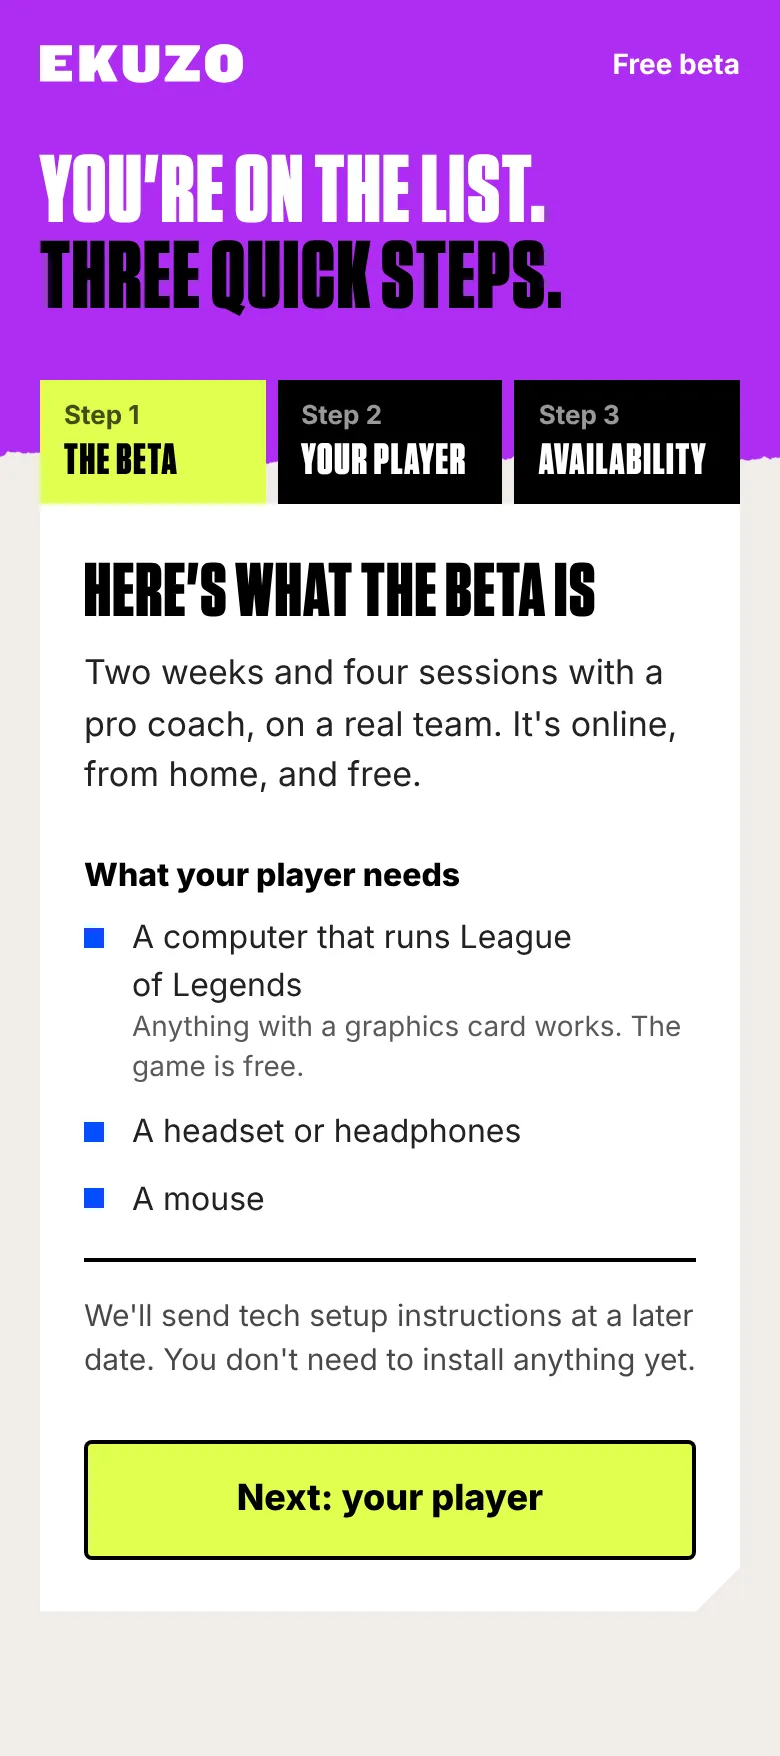
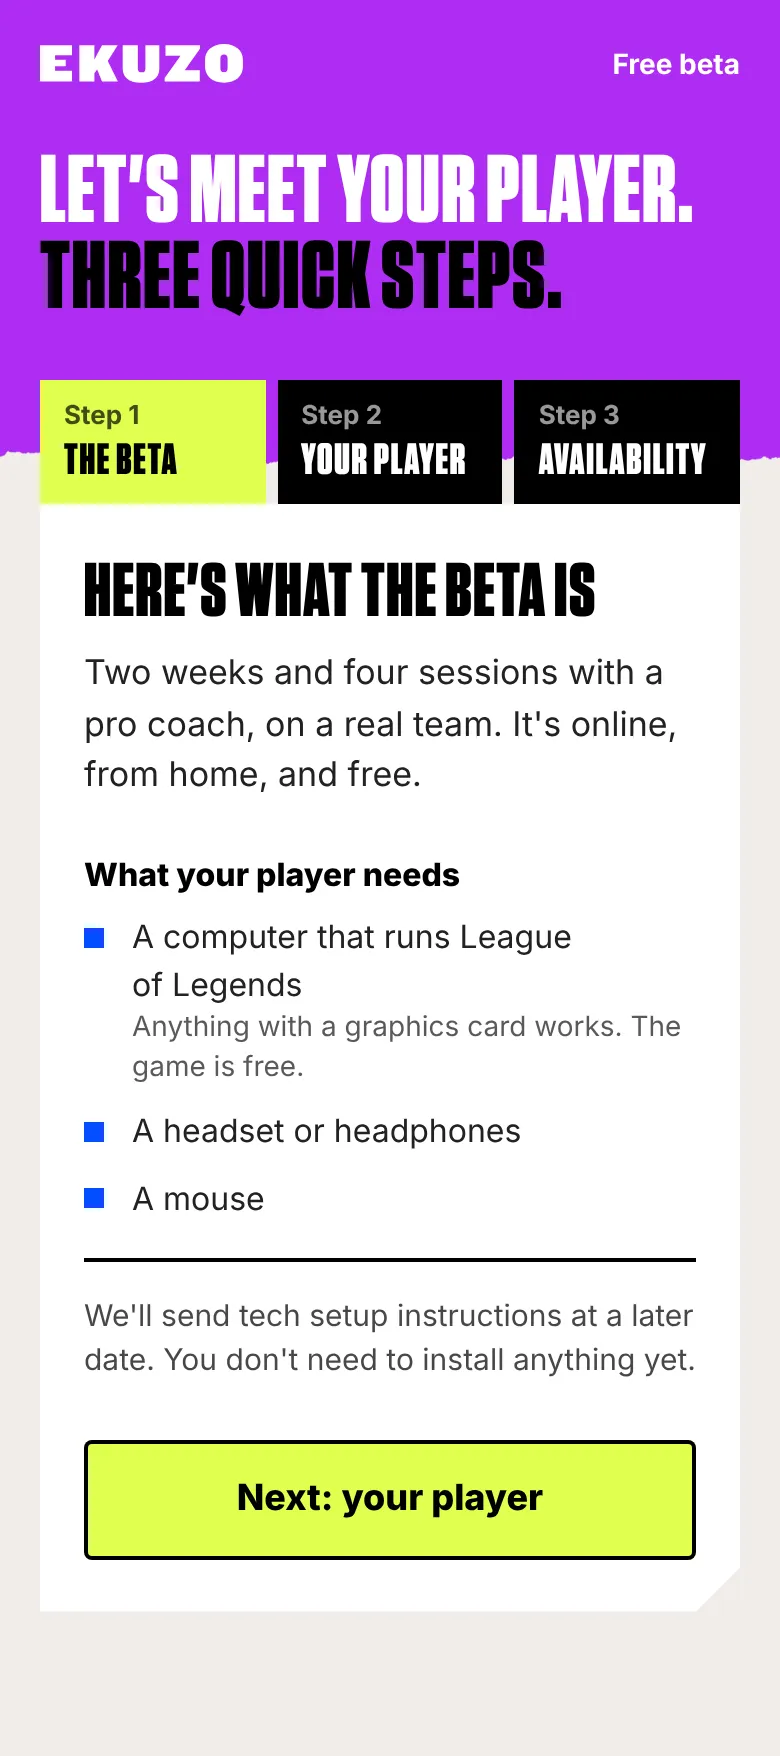
BETA wizard: player card step, softer ending, reaction test
Drops the games and League questions. Draft question set for the team
to settle Nov 12.

Claude-Session: https://claude.ai/code/session_01543UG8e9JwTD5Qg5aKwmc9

Changed region(s): [[0.0308, 0.0615, 0.8923, 0.1538]]

diff --git a/public/roadshow/beta/wizard.html b/public/roadshow/beta/wizard.html
@@ -87,10 +87,23 @@ main{position:relative;z-index:2;max-width:680px;margin:-56px auto 0;padding:0 2
 .btn.back:hover{background:var(--off)}
 .ask{font-size:15px;text-align:center;margin-top:20px;color:rgba(0,0,0,.7)}
 .ask a{font-weight:800;color:var(--black);text-underline-offset:3px;display:inline-flex;min-height:44px;align-items:center}
-.recap{list-style:none;margin-top:20px;border-top:2px solid var(--black)}
-.recap li{display:flex;justify-content:space-between;gap:16px;padding:12px 0;border-bottom:1px solid rgba(0,0,0,.18);font-size:16px}
-.recap li span{color:rgba(0,0,0,.65)}
-.recap li b{text-align:right;font-weight:700}
+.pc{margin-top:28px;background:var(--black);color:#fff;padding:20px 20px 18px;clip-path:polygon(0 0,calc(100% - 22px) 0,100% 22px,100% 100%,0 100%)}
+.pc:empty{display:none}
+.pc .who{font:900 44px/.9 var(--display);letter-spacing:.03em;text-transform:uppercase;color:var(--lime);overflow-wrap:anywhere}
+.pc .who small{font:700 15px var(--body);letter-spacing:0;text-transform:none;color:rgba(255,255,255,.75);margin-left:8px}
+.pc dl{margin:14px 0 0;display:grid;gap:8px}
+.pc dl div{display:flex;gap:12px;justify-content:space-between;border-top:1px solid rgba(255,255,255,.22);padding-top:8px;font-size:15px;line-height:1.35}
+.pc dt{color:rgba(255,255,255,.7);flex:none}
+.pc dd{margin:0;font-weight:700;text-align:right;overflow-wrap:anywhere}
+.rx{margin-top:32px;padding-top:6px;border-top:2px solid var(--black)}
+.pad{display:flex;flex-direction:column;align-items:center;justify-content:center;gap:6px;width:100%;min-height:200px;margin-top:16px;border:0;border-radius:4px;background:var(--black);color:#fff;cursor:pointer;font-family:var(--body);padding:20px;touch-action:manipulation;-webkit-tap-highlight-color:transparent;user-select:none}
+.pad b{font:900 52px/.9 var(--display);letter-spacing:.03em;text-transform:uppercase}
+.pad span{font-size:15px;font-weight:600;color:rgba(255,255,255,.75)}
+.pad[data-s=wait]{background:var(--violet)}
+.pad[data-s=go]{background:var(--lime);color:var(--black)}
+.pad[data-s=go] span{color:rgba(0,0,0,.7)}
+.pad[data-s=early]{background:var(--bad)}
+.best{font:700 16px/1.4 var(--body);margin-top:12px;min-height:22px}
 @media (min-width:700px){
  .top{padding-bottom:104px}.nav{height:80px}.nav img{height:24px}
  .card{padding:40px 40px 36px}
@@ -102,13 +115,13 @@ main{position:relative;z-index:2;max-width:680px;margin:-56px auto 0;padding:0 2
 <body>
 <header class="top"><div class="in">
 <div class="nav"><a href="/"><img src="/images/ekuzo-logo.svg" alt="EKUZO" width="107" height="21"></a><span>Free beta</span></div>
-<h1 class="d">You're on the list.<br><em>Three quick steps.</em></h1>
+<h1 class="d">Let's meet your player.<br><em>Three quick steps.</em></h1>
 </div></header>
 
 <main>
 <ol class="dots" id="dots" aria-label="Steps">
 <li class="on"><span>Step 1</span><b>The beta</b></li>
-<li><span>Step 2</span><b>Your player</b></li>
+<li><span>Step 2</span><b>Player card</b></li>
 <li><span>Step 3</span><b>Availability</b></li>
 </ol>
 
@@ -124,39 +137,44 @@ main{position:relative;z-index:2;max-width:680px;margin:-56px auto 0;padding:0 2
 <li>A mouse</li>
 </ul>
 <p class="later">We'll send tech setup instructions at a later date. You don't need to install anything yet.</p>
-<div class="acts"><button class="btn" type="button" data-next>Next: your player</button></div>
+<div class="acts"><button class="btn" type="button" data-next>Next: player card</button></div>
 </section>
 
 <section data-step="1" hidden>
-<h2 class="d" tabindex="-1">Tell us about your player</h2>
-<p class="lede">This helps the coach put them on the right team.</p>
+<h2 class="d" tabindex="-1">Build their player card</h2>
+<p class="lede">No wrong answers. This is how the coach gets to know them before day one.</p>
 <div class="q" id="q-email" hidden><label for="email">Your email <i>(the one you joined with)</i></label><input id="email" name="email" type="email" autocomplete="email" inputmode="email" autocapitalize="off" spellcheck="false"><p class="err">Enter the email you joined with.</p></div>
 <div class="row">
 <div class="q"><label for="pname">Player's first name</label><input id="pname" name="pname" type="text" autocomplete="off" autocapitalize="words" required><p class="err">Add your player's first name.</p></div>
 <div class="q"><label for="age">Age</label><input id="age" name="age" type="number" inputmode="numeric" min="9" max="19" required><p class="err">Ages 9 and up.</p></div>
 </div>
-<fieldset class="q"><legend>What games do they play? <i>(pick any)</i></legend>
+<fieldset class="q"><legend>Where do they game? <i>(pick any)</i></legend>
 <div class="opts">
-<label><input type="checkbox" name="games" value="Roblox">Roblox</label>
-<label><input type="checkbox" name="games" value="Minecraft">Minecraft</label>
-<label><input type="checkbox" name="games" value="Fortnite">Fortnite</label>
-<label><input type="checkbox" name="games" value="League of Legends">League of Legends</label>
-<label><input type="checkbox" name="games" value="Valorant">Valorant</label>
-<label><input type="checkbox" name="games" value="Rocket League">Rocket League</label>
-<label><input type="checkbox" name="games" value="Something else">Something else</label>
+<label><input type="checkbox" name="plays" value="Computer">Computer</label>
+<label><input type="checkbox" name="plays" value="Console">Console</label>
+<label><input type="checkbox" name="plays" value="Tablet">Tablet</label>
+<label><input type="checkbox" name="plays" value="Phone">Phone</label>
+<label><input type="checkbox" name="plays" value="Not much yet">Not much yet</label>
 </div></fieldset>
-<fieldset class="q" id="q-lol"><legend>Have they played League of Legends?</legend>
+<fieldset class="q"><legend>How have team sports gone for them?</legend>
 <div class="opts">
-<label><input type="radio" name="lol" value="Never" required>Never</label>
-<label><input type="radio" name="lol" value="A little">A little</label>
-<label><input type="radio" name="lol" value="Plays a lot">Plays a lot</label>
-</div><p class="err">Pick one. Never is a fine answer, most kids start from scratch.</p></fieldset>
-<fieldset class="q" id="q-pc"><legend>How much do they play on a computer?</legend>
-<div class="opts">
-<label><input type="radio" name="pc" value="Most days" required>Most days</label>
-<label><input type="radio" name="pc" value="Sometimes">Sometimes</label>
-<label><input type="radio" name="pc" value="Mostly console or phone">Mostly console or phone</label>
-</div><p class="err">Pick the closest one.</p></fieldset>
+<label><input type="radio" name="sports" value="Loves them">Loves them</label>
+<label><input type="radio" name="sports" value="Plays, not their thing">Plays, but it's not their thing</label>
+<label><input type="radio" name="sports" value="Tried, didn't stick">Tried, didn't stick</label>
+<label><input type="radio" name="sports" value="Hasn't tried yet">Hasn't tried yet</label>
+</div></fieldset>
+<fieldset class="q"><legend>What's their superpower? <i>(pick up to two)</i></legend>
+<div class="opts" id="powers">
+<label><input type="checkbox" name="power" value="Never gives up">Never gives up</label>
+<label><input type="checkbox" name="power" value="Makes everyone laugh">Makes everyone laugh</label>
+<label><input type="checkbox" name="power" value="Quick thinker">Quick thinker</label>
+<label><input type="checkbox" name="power" value="Natural leader">Natural leader</label>
+<label><input type="checkbox" name="power" value="Quiet strategist">Quiet strategist</label>
+<label><input type="checkbox" name="power" value="Builds anything">Builds anything</label>
+<label><input type="checkbox" name="power" value="Great teammate">Great teammate</label>
+</div></fieldset>
+<div class="q"><label for="fact">One fun fact about them <i>(optional)</i></label><input id="fact" name="fact" type="text" autocomplete="off" maxlength="120" placeholder="Knows every flag. Beat the whole family at chess."></div>
+<div class="pc" id="pc" aria-live="polite"></div>
 <div class="acts"><button class="btn back" type="button" data-back>Back</button><button class="btn" type="button" data-next>Next: availability</button></div>
 </section>
 
@@ -185,8 +203,14 @@ main{position:relative;z-index:2;max-width:680px;margin:-56px auto 0;padding:0 2
 
 <section data-step="3" hidden>
 <h2 class="d" tabindex="-1" id="doneh">Got it.</h2>
-<p class="lede">We'll review your times and follow up with practice details. Tech setup instructions come later, so there's nothing to install yet.</p>
-<ul class="recap" id="recap"></ul>
+<p class="lede">That's everything we need for now. We build teams around the times families share, so spots depend on what lines up. We'll review and email you either way.</p>
+<div class="pc" id="pc2"></div>
+<div class="rx">
+<p class="sub">One more thing, for your player</p>
+<p class="lede" style="margin-top:6px">Hand them the screen. How fast are their reactions? Three tries.</p>
+<button class="pad" type="button" id="pad" data-s="idle"><b>Tap to start</b><span>Wait for green, then tap as fast as you can</span></button>
+<p class="best" id="best" aria-live="polite"></p>
+</div>
 <p class="ask" style="text-align:left">Questions? <a href="sms:+18322710150">Text our founder</a></p>
 </section>
 </form>
@@ -213,8 +237,6 @@ main{position:relative;z-index:2;max-width:680px;margin:-56px auto 0;padding:0 2
       var qe=document.getElementById("q-email"); if(!qe.hidden) mark(qe,!/^[^\s@]+@[^\s@]+\.[^\s@]{2,}$/.test(f.email.value.trim()));
       mark(f.pname.closest(".q"),!f.pname.value.trim());
       var a=parseInt(f.age.value,10); mark(f.age.closest(".q"),!(a>=9&&a<=19));
-      mark(document.getElementById("q-lol"),!f.lol.value);
-      mark(document.getElementById("q-pc"),!f.pc.value);
     }
     if(i===2){
       mark(document.getElementById("q-school"),!f.school.value);
@@ -229,16 +251,48 @@ main{position:relative;z-index:2;max-width:680px;margin:-56px auto 0;padding:0 2
     if(b.hasAttribute("data-back")) show(cur-1);
   });
   f.addEventListener("input",function(e){ var q=e.target.closest(".q.bad"); if(q) q.classList.remove("bad"); });
+  function vals(n){return [].map.call(f.querySelectorAll("[name="+n+"]:checked"),function(x){return x.value})}
+  function card(el,full){
+    var name=f.pname.value.trim(), age=parseInt(f.age.value,10), rows=[];
+    el.textContent=""; if(!name) return;
+    var w=document.createElement("p"); w.className="who"; w.textContent=name;
+    if(age>=9){var sm=document.createElement("small"); sm.textContent="Age "+age; w.appendChild(sm);} el.appendChild(w);
+    if(vals("plays").length) rows.push(["Games on",vals("plays").join(", ")]);
+    if(f.sports.value) rows.push(["Team sports",f.sports.value]);
+    if(vals("power").length) rows.push(["Superpower",vals("power").join(" + ")]);
+    if(f.fact.value.trim()) rows.push(["Fun fact",f.fact.value.trim()]);
+    if(full){ rows.push(["Time zone",f.tz.value]); rows.push(["Could practice",vals("times").join(", ")]); }
+    if(!rows.length) return;
+    var dl=document.createElement("dl");
+    rows.forEach(function(r){var d=document.createElement("div"),t=document.createElement("dt"),v=document.createElement("dd");t.textContent=r[0];v.textContent=r[1];d.appendChild(t);d.appendChild(v);dl.appendChild(d)});
+    el.appendChild(dl);
+  }
+  var pc=document.getElementById("pc");
+  f.addEventListener("input",function(){ card(pc,false); });
+  // superpower: two at most
+  document.getElementById("powers").addEventListener("change",function(e){ if(vals("power").length>2) e.target.checked=false; card(pc,false); });
   f.addEventListener("submit",function(e){
     e.preventDefault(); if(cur!==2||!check(2)) return;
-    var name=f.pname.value.trim(), times=[].map.call(f.querySelectorAll("[name=times]:checked"),function(x){return x.value});
-    var games=[].map.call(f.querySelectorAll("[name=games]:checked"),function(x){return x.value});
-    document.getElementById("doneh").textContent="Got it. Thanks for "+name+"'s info.";
-    var rows=[["Player",name+", "+parseInt(f.age.value,10)],["Plays",games.join(", ")||"Not listed"],["League of Legends",f.lol.value],["Time zone",f.tz.value],["Times",times.join(", ")]];
-    var ul=document.getElementById("recap"); ul.textContent="";
-    rows.forEach(function(r){var li=document.createElement("li"),s=document.createElement("span"),b=document.createElement("b");s.textContent=r[0];b.textContent=r[1];li.appendChild(s);li.appendChild(b);ul.appendChild(li)});
+    document.getElementById("doneh").textContent="Got it. Thanks for "+f.pname.value.trim()+"'s info.";
+    card(document.getElementById("pc2"),true);
     show(3);
   });
+  // Reaction test: three tries, best time. Just for fun; nothing is saved.
+  var pad=document.getElementById("pad"), pb=pad.querySelector("b"), ps=pad.querySelector("span"), bestEl=document.getElementById("best"), t0=0, timer=0, tries=[], lock=0;
+  function set(st,big,small){ pad.setAttribute("data-s",st); pb.textContent=big; ps.textContent=small; }
+  function arm(){ set("wait","Wait for it","Tap when this turns green"); timer=setTimeout(function(){ t0=performance.now(); set("go","Tap!",""); },1200+Math.random()*2300); }
+  function hit(){
+    var st=pad.getAttribute("data-s"), now=performance.now();
+    if(now<lock) return;
+    if(st==="idle"||st==="early"||st==="res"){ if(tries.length>=3){ tries=[]; bestEl.textContent=""; } arm(); return; }
+    if(st==="wait"){ clearTimeout(timer); lock=now+350; set("early","Too soon","Tap to try again"); return; }
+    if(st==="go"){ var ms=Math.round(now-t0); tries.push(ms); lock=now+350;
+      var best=Math.min.apply(null,tries), left=3-tries.length;
+      set("res",ms+" ms",left?("Tap for try "+(tries.length+1)+" of 3"):"Tap to play again");
+      bestEl.textContent=left?("Best so far: "+best+" ms"):("Best of three: "+best+" ms. "+(best<280?"Lightning.":best<380?"Sharp.":"Warmed up now.")+" Bring that to practice."); }
+  }
+  pad.addEventListener("pointerdown",function(e){ e.preventDefault(); pad.focus(); hit(); });
+  pad.addEventListener("keydown",function(e){ if(e.key===" "||e.key==="Enter"){ e.preventDefault(); if(!e.repeat) hit(); } });
 })();
 </script>
 </body>

diff --git a/public/roadshow/beta-lab.html b/public/roadshow/beta-lab.html
@@ -130,7 +130,7 @@ footer{color:var(--muted);font-size:14px;border-top:1px solid var(--line);paddin
       <li><b>Beta ad</b><span>Four new ads on Meta. Each lands on the BETA page, where a parent joins with one email field.</span><a href="/season1/beta">Open the page</a></li>
       <li><b>Karlin's email</b><span>A personal note to the 400+ Season 01 sign-ups. To join, they just reply.</span><a href="#emails">See the email</a></li>
       <li><b>Wizard invite</b><span>Everyone whose email we now have gets a short email with the wizard link.</span></li>
-      <li><b>Sign-up wizard</b><span>Three steps: what the beta is, the player, and availability.</span><a href="beta/wizard.html">Open the wizard</a></li>
+      <li><b>Sign-up wizard</b><span>Three steps: what the beta is, a player card, and availability. It ends with a reaction test for the kid.</span><a href="beta/wizard.html">Open the wizard</a></li>
       <li><b>Review and confirm</b><span>We check that each player's availability and our volume line up, then follow up with practice. How we confirm gets decided Nov 12.</span></li>
       <li><b>The beta</b><span>Two weeks, four sessions. Then the Season 01 offer.</span></li>
     </ol>
@@ -153,9 +153,9 @@ footer{color:var(--muted);font-size:14px;border-top:1px solid var(--line);paddin
     <p class="sub">Three steps after we have a parent's email. It tells them what the beta is, then asks about the player and the times that work.</p>
     <div class="screens wiz">
       <figure><img src="beta/screens/wizard-1-beta.webp" alt="Wizard step 1: here's what the beta is, and what the player needs." width="390" height="878" loading="lazy"><figcaption><b>1. The beta</b>Two weeks, four sessions. A computer that runs League of Legends, a headset or headphones, a mouse. Tech setup comes later.</figcaption></figure>
-      <figure><img src="beta/screens/wizard-2-player.webp" alt="Wizard step 2: the player's name, age, games and experience." width="390" height="1157" loading="lazy"><figcaption><b>2. Your player</b>Name, age, the games they play, and their experience with League and with a computer.</figcaption></figure>
+      <figure><img src="beta/screens/wizard-2-player.webp" alt="Wizard step 2: build their player card." width="390" height="1157" loading="lazy"><figcaption><b>2. Player card</b>Name, age, where they game, how team sports have gone, their superpower and a fun fact. The card fills in as they answer.</figcaption></figure>
       <figure><img src="beta/screens/wizard-3-availability.webp" alt="Wizard step 3: time zone, school schedule and the times that could work." width="390" height="1323" loading="lazy"><figcaption><b>3. Availability</b>Time zone, normal school schedule or not, then weekday or weekend, afternoons or evenings.</figcaption></figure>
-      <figure><img src="beta/screens/wizard-4-done.webp" alt="Wizard end: Got it. We'll review your times and follow up with practice details." width="390" height="889" loading="lazy"><figcaption><b>After the last step</b>A holding message until the confirmation process is set.</figcaption></figure>
+      <figure><img src="beta/screens/wizard-4-done.webp" alt="Wizard end: Got it. We'll review your times and follow up with practice details." width="390" height="889" loading="lazy"><figcaption><b>After the last step</b>"We'll review and email you either way", so nobody reads it as a guaranteed spot. Then a reaction test for the player.</figcaption></figure>
     </div>
     <a class="more" href="beta/wizard.html">Try the wizard</a>
   </section>
@@ -196,7 +196,7 @@ footer{color:var(--muted);font-size:14px;border-top:1px solid var(--line);paddin
         </header>
         <div class="body" id="emailbody2">
           <p>Hi,</p>
-          <p>Thanks for joining the beta. Three quick steps get your player on a team:</p>
+          <p>Thanks for your interest in the beta. Three quick steps tell us about your player and the times that work:</p>
           <p><span class="ph">[wizard link]</span></p>
           <p>Questions? Just reply.</p>
           <p>Karlin<br>Founder, EKUZO</p>
@@ -228,9 +228,10 @@ footer{color:var(--muted);font-size:14px;border-top:1px solid var(--line);paddin
     <h2>Still to decide</h2>
     <p class="sub">What the pathway needs before it goes live.</p>
     <ul class="open">
-      <li><b>How we confirm a player</b><span class="who">Team</span><p>Being decided the morning of Nov 12. Until then the wizard ends on "we'll review your times and follow up with practice details".</p></li>
+      <li><b>How we confirm a player</b><span class="who">Team</span><p>Being decided the morning of Nov 12. Until then the wizard ends on "we'll review and email you either way", which promises a reply and not a spot.</p></li>
       <li><b>Dates and session times</b><span class="who">Karlin</span><p>It is two weeks and four sessions. Which two weeks, and the session times, come out of the availability answers.</p></li>
       <li><b>How many players we can take</b><span class="who">Karlin</span><p>The drafts treat the beta as open to every family who signs up. If coach capacity sets a limit, the page needs a "full" state and a waitlist.</p></li>
+      <li><b>Which questions we ask about the kid</b><span class="who">Team</span><p>For Nov 12. The draft asks where they game, how team sports have gone, their superpower and a fun fact. It no longer asks which games they play or about League. What do we need to filter players, and what can the coach learn at the intro?</p></li>
       <li><b>Where the wizard saves</b><span class="who">Jamie</span><p>The wizard is a clickable draft and saves nothing yet. It needs a place for the answers, and the invite email in Klaviyo for page sign-ups.</p></li>
       <li><b>The paid Season 01 page while BETA runs</b><span class="who">Team</span><p>The drafts assume it stays live for families who are ready, and every ad and email points to BETA.</p></li>
       <li><b>The free jersey deadline</b><span class="who">Team</span><p>The jersey offer ends Nov 30, which may fall before the beta does. Decide if beta families still get it.</p></li>

diff --git a/WORKLOG.md b/WORKLOG.md
@@ -9,6 +9,7 @@
 Aaron's flow: beta ad to the BETA page (email sign-up); Karlin's email to a plain reply. Once we have an email, we invite the parent to a 3-step wizard. Goal of the wizard: evaluate players and see if availability and volume line up. The confirmation process is being decided Nov 12.
 
 - **New draft:** `public/roadshow/beta/wizard.html` (static, saves nothing). Step 1 what the beta is (2 weeks, 4 sessions; a computer that runs League of Legends, a headset or headphones, a mouse; tech setup sent later). Step 2 the player (name, age, games, League experience, computer experience). Step 3 availability (time zone, normal school schedule or not, weekday or weekend by afternoons or evenings, optional note). Ends on "we'll review your times and follow up with practice details". `?email=` prefills and hides the email field; without it the field shows in step 2.
+- **Later the same day (Aaron):** step 2 is now "Build their player card" and reads less like a survey. It asks where they game (computer, console, tablet, phone), how team sports have gone, their superpower (up to two) and a fun fact, and a card fills in as the parent answers. The games and League of Legends questions are gone. The end message promises a review and an email "either way", not a spot, and a three-try reaction test for the player follows it (for fun, nothing saved). The question set is a draft for the team to settle Nov 12.
 - **Needed from Jamie:** where the wizard's answers are saved, and the wizard invite email in Klaviyo for page sign-ups. Nothing in `app/api` was touched.
 - `public/roadshow/beta-lab.html`: pathway redrawn for the two ways in, new "The wizard" section with screens, email 1 now asks for a reply (no link), email 2 is the wizard invite, "Still to decide" updated.
 - `app/season1/beta/beta.html` copy only: "Two weeks, four sessions", and the "What do they need?" answer now matches the wizard (graphics card, headset or headphones, mouse).
